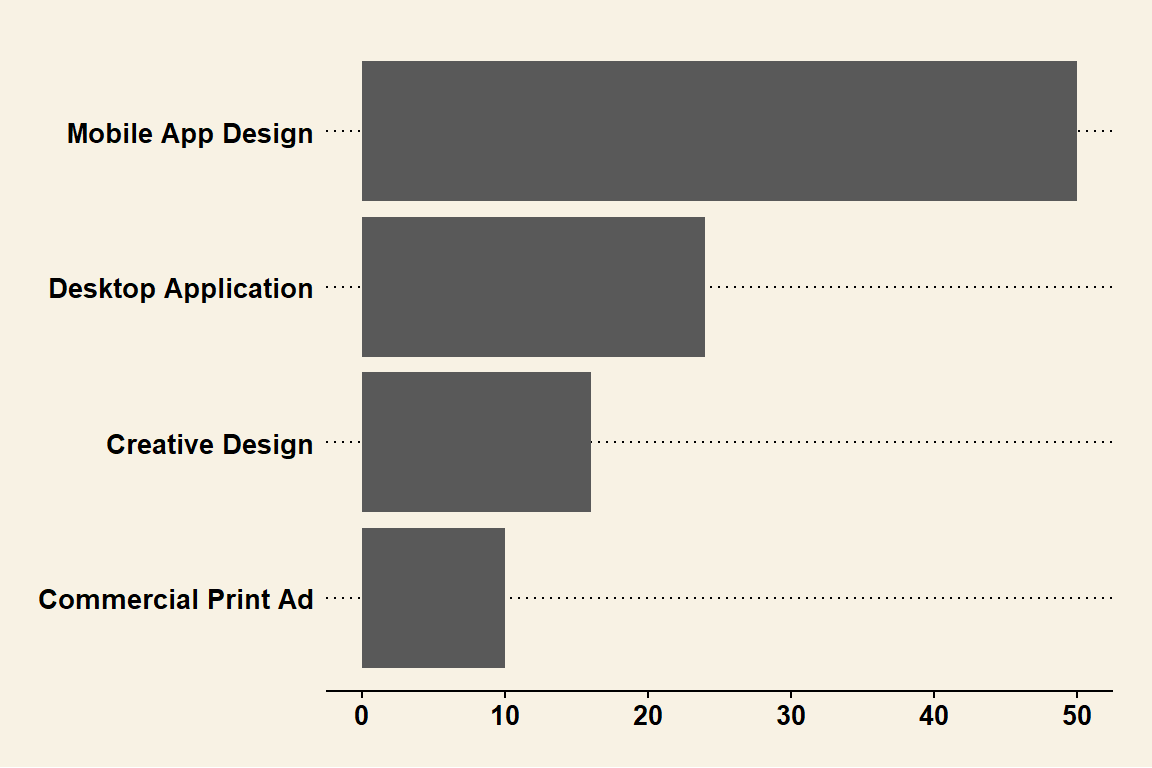
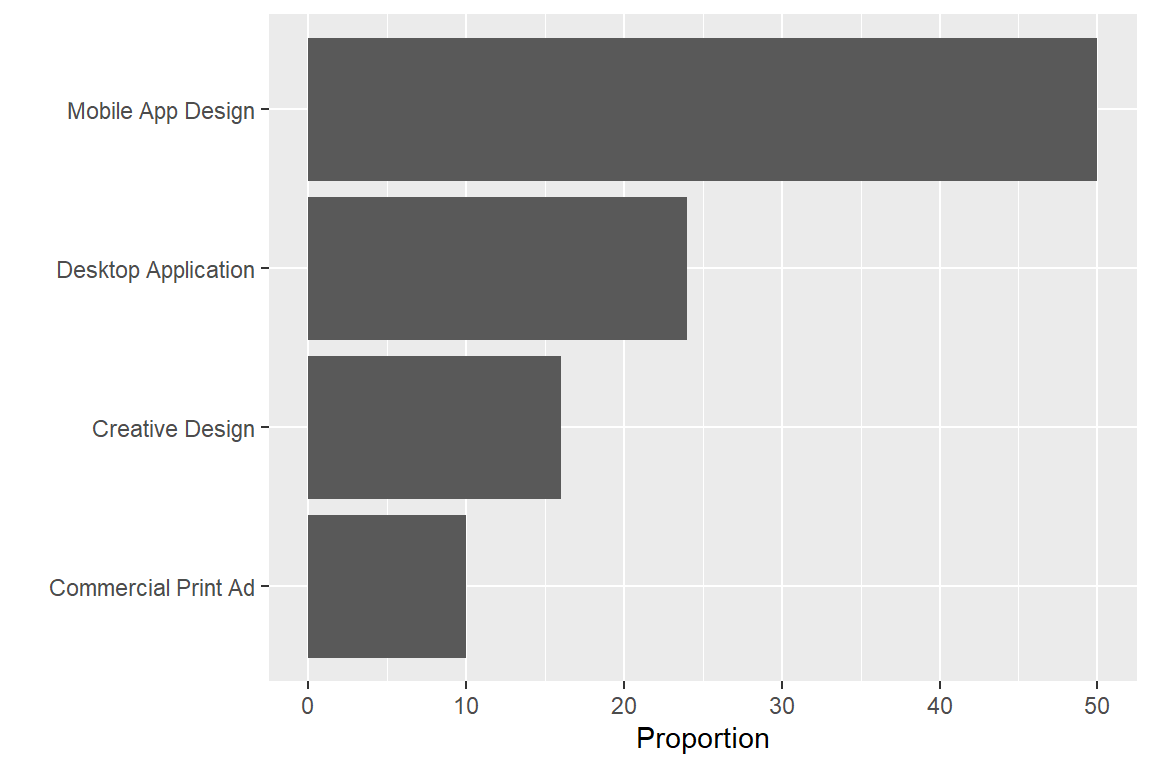
Présentation chap 4

diff --git a/diapos_h24/cours_3/04_viz.html b/diapos_h24/cours_3/04_viz.html
@@ -426,7 +426,7 @@ Andrés Silva
 <!-- 1. Les tableaux et leur organisation -->
 </section>
 <section id="les-graphiques-avant-de-publier" class="slide level2 center">
-<h2>1. Les graphiques: avant de publier</h2>
+<h2>1. Les graphiques : avant de publier</h2>
 </section>
 <section id="un-outil-dexploration" class="slide level2 center">
 <h2>Un outil d’exploration</h2>
@@ -477,60 +477,139 @@ Andrés Silva
 </div>
 </div>
 </section>
-<section id="section" class="slide level2 center">
-<h2></h2>
+<section id="section" class="slide level2 center" data-auto-animate="true">
+<h2 data-id="quarto-animate-title"></h2>
 <div class="cell" data-layout-align="center">
-<div class="sourceCode cell-code" id="cb3"><pre class="sourceCode numberSource r number-lines code-with-copy"><code class="sourceCode r"><span id="cb3-1"><a href="#cb3-1"></a>nasa_temp <span class="sc">|&gt;</span></span>
-<span id="cb3-2"><a href="#cb3-2"></a>  <span class="fu">filter</span>(year <span class="sc">&gt;=</span> <span class="dv">1998</span> <span class="sc">&amp;</span> year <span class="sc">&lt;=</span> <span class="dv">2008</span>) <span class="sc">%&gt;%</span> </span>
-<span id="cb3-3"><a href="#cb3-3"></a>  <span class="fu">ggplot</span>(<span class="at">mapping =</span> <span class="fu">aes</span>(<span class="at">x =</span> year, <span class="at">y =</span> temp)) <span class="sc">+</span></span>
-<span id="cb3-4"><a href="#cb3-4"></a>  <span class="fu">geom_line</span>()</span></code><button title="Copy to Clipboard" class="code-copy-button"><i class="bi"></i></button></pre></div>
+<div class="sourceCode cell-code" id="cb3"><pre class="sourceCode numberSource r number-lines code-with-copy" data-id="quarto-animate-code"><code class="sourceCode r hljs"><span id="cb3-1" class="hljs-ln-code"><a href="#cb3-1"></a>nasa_temp <span class="sc">|&gt;</span></span>
+<span id="cb3-2" class="hljs-ln-code"><a href="#cb3-2"></a>  <span class="fu">filter</span>(year <span class="sc">&gt;=</span> <span class="dv">1998</span> <span class="sc">&amp;</span> year <span class="sc">&lt;=</span> <span class="dv">2008</span>) <span class="sc">%&gt;%</span> </span>
+<span id="cb3-3" class="hljs-ln-code"><a href="#cb3-3"></a>  <span class="fu">ggplot</span>(<span class="at">mapping =</span> <span class="fu">aes</span>(<span class="at">x =</span> year, <span class="at">y =</span> temp)) <span class="sc">+</span></span>
+<span id="cb3-4" class="hljs-ln-code"><a href="#cb3-4"></a>  <span class="fu">geom_line</span>()</span></code><button title="Copy to Clipboard" class="code-copy-button"><i class="bi"></i></button></pre></div>
 
 </div>
 <img data-src="04_viz_files/figure-revealjs/unnamed-chunk-2-1.png" width="576" class="r-stretch quarto-figure-center"></section>
+<section id="section-1" class="slide level2 center" data-auto-animate="true">
+<h2 data-id="quarto-animate-title"></h2>
+<div class="cell" data-layout-align="center">
+<div class="sourceCode cell-code" id="cb4" data-code-line-numbers="2"><pre class="sourceCode numberSource r number-lines code-with-copy" data-id="quarto-animate-code"><code class="sourceCode r hljs"><span id="cb4-1" class="hljs-ln-code"><a href="#cb4-1"></a>nasa_temp <span class="sc">|&gt;</span></span>
+<span id="cb4-2" class="hljs-ln-code"><a href="#cb4-2"></a>  <span class="co">#filter(year &gt;= 1998 &amp; year &lt;= 2008) %&gt;% </span></span>
+<span id="cb4-3" class="hljs-ln-code"><a href="#cb4-3"></a>  <span class="fu">ggplot</span>(<span class="at">mapping =</span> <span class="fu">aes</span>(<span class="at">x =</span> year, <span class="at">y =</span> temp)) <span class="sc">+</span></span>
+<span id="cb4-4" class="hljs-ln-code"><a href="#cb4-4"></a>  <span class="fu">geom_line</span>()</span></code><button title="Copy to Clipboard" class="code-copy-button"><i class="bi"></i></button></pre></div>
+
+</div>
+<img data-src="04_viz_files/figure-revealjs/unnamed-chunk-3-1.png" width="576" class="r-stretch quarto-figure-center"></section>
+<section id="qualité-1.-honnêteté-1" class="slide level2 center">
+<h2>Qualité 1. Honnêteté</h2>
+<div class="columns">
+<div class="column" style="width:525px;">
+<div class="fragment semi-fade-out">
+<div class="quarto-figure quarto-figure-center">
+<figure>
+<p><img data-src="images/04_us_income.png" width="900"></p>
+</figure>
+</div>
+</div>
+</div><div class="column" style="width:525px;">
+<div class="fragment fade-in">
+<div class="quarto-figure quarto-figure-center">
+<figure>
+<p><img data-src="images/04_us_income_log.png" width="900"></p>
+</figure>
+</div>
+</div>
+</div>
+</div>
+<center>
+<small>L’inégalité des revenus des adultes aux États-Unis au fil du temps. Source : <a href="https://handsondataviz.org/persuasive.html">Hands-On Data Visualization</a>.</small>
+</center>
+</section>
 <section id="qualité-2.-fonctionnelle" class="slide level2 center">
 <h2>Qualité 2. Fonctionnelle</h2>
-<p><img data-src="images/3d-Pie-Chart1.jpg"> Source: <a href="https://slidebazaar.com/items/free-3d-pie-chart-powerpoint-template/">Slidebazaar</a></p>
+
+<img data-src="images/3d-Pie-Chart1.jpg" width="700" class="r-stretch quarto-figure-center"><p>Source : <a href="https://slidebazaar.com/items/free-3d-pie-chart-powerpoint-template/">Slidebazaar</a></p>
 </section>
-<section id="section-1" class="slide level2 center">
+<section id="section-2" class="slide level2 center">
 <h2></h2>
-<div class="cell">
-<div class="sourceCode cell-code" id="cb4"><pre class="sourceCode numberSource r number-lines code-with-copy"><code class="sourceCode r"><span id="cb4-1"><a href="#cb4-1"></a>market <span class="ot">&lt;-</span> <span class="fu">tibble</span>(<span class="at">category =</span> <span class="fu">c</span>(<span class="st">"Creative Design"</span>, <span class="st">"Desktop Application"</span>, <span class="st">"Commercial Print Ad"</span>, <span class="st">"Mobile App Design"</span>), <span class="at">proportion =</span> <span class="fu">c</span>(<span class="dv">16</span>, <span class="dv">24</span>, <span class="dv">10</span>, <span class="dv">50</span>))</span>
-<span id="cb4-2"><a href="#cb4-2"></a>market <span class="sc">%&gt;%</span> </span>
-<span id="cb4-3"><a href="#cb4-3"></a>  <span class="fu">ggplot</span>(<span class="at">mapping =</span> <span class="fu">aes</span>(<span class="at">x =</span> <span class="fu">fct_reorder</span>(category, proportion), <span class="at">y =</span> proportion)) <span class="sc">+</span> <span class="fu">geom_col</span>() <span class="sc">+</span> <span class="fu">labs</span>(<span class="at">x =</span> <span class="st">""</span>, <span class="at">y =</span> <span class="st">"Proportion"</span>) <span class="sc">+</span> <span class="fu">coord_flip</span>()</span></code><button title="Copy to Clipboard" class="code-copy-button"><i class="bi"></i></button></pre></div>
+<div class="cell" data-layout-align="center">
+<div class="sourceCode cell-code" id="cb5"><pre class="sourceCode numberSource r number-lines code-with-copy"><code class="sourceCode r"><span id="cb5-1"><a href="#cb5-1"></a>market <span class="ot">&lt;-</span> <span class="fu">tibble</span>(<span class="at">category =</span> <span class="fu">c</span>(<span class="st">"Creative Design"</span>, <span class="st">"Desktop Application"</span>, <span class="st">"Commercial Print Ad"</span>, <span class="st">"Mobile App Design"</span>), <span class="at">proportion =</span> <span class="fu">c</span>(<span class="dv">16</span>, <span class="dv">24</span>, <span class="dv">10</span>, <span class="dv">50</span>))</span>
+<span id="cb5-2"><a href="#cb5-2"></a>market <span class="sc">|&gt;</span></span>
+<span id="cb5-3"><a href="#cb5-3"></a>  <span class="fu">ggplot</span>(<span class="at">mapping =</span> <span class="fu">aes</span>(<span class="at">x =</span> <span class="fu">fct_reorder</span>(category, proportion), <span class="at">y =</span> proportion)) <span class="sc">+</span> <span class="fu">geom_col</span>() <span class="sc">+</span> <span class="fu">labs</span>(<span class="at">x =</span> <span class="st">""</span>, <span class="at">y =</span> <span class="st">"Proportion"</span>) <span class="sc">+</span> <span class="fu">coord_flip</span>()</span></code><button title="Copy to Clipboard" class="code-copy-button"><i class="bi"></i></button></pre></div>
 
 </div>
-<img data-src="04_viz_files/figure-revealjs/unnamed-chunk-3-1.png" width="576" class="r-stretch"></section>
+<img data-src="04_viz_files/figure-revealjs/unnamed-chunk-4-1.png" width="576" class="r-stretch quarto-figure-center"></section>
 <section id="qualité-3.-visuel" class="slide level2 center">
 <h2>Qualité 3. Visuel</h2>
-<div class="cell">
-<div class="sourceCode cell-code" id="cb5"><pre class="sourceCode numberSource r number-lines code-with-copy"><code class="sourceCode r"><span id="cb5-1"><a href="#cb5-1"></a><span class="co">#library("ggthemr")</span></span>
-<span id="cb5-2"><a href="#cb5-2"></a><span class="fu">library</span>(ggthemes)</span>
-<span id="cb5-3"><a href="#cb5-3"></a><span class="co">#ggthemr(palette = "dust", layout = "scientific", type = "outer")</span></span>
-<span id="cb5-4"><a href="#cb5-4"></a>market <span class="sc">%&gt;%</span> </span>
-<span id="cb5-5"><a href="#cb5-5"></a>  <span class="fu">ggplot</span>(<span class="at">mapping =</span> <span class="fu">aes</span>(<span class="at">x =</span> <span class="fu">fct_reorder</span>(category, proportion), <span class="at">y =</span> proportion)) <span class="sc">+</span> <span class="fu">geom_col</span>() <span class="sc">+</span> <span class="fu">labs</span>(<span class="at">x =</span> <span class="st">""</span>, <span class="at">y =</span> <span class="st">"Proportion"</span>) <span class="sc">+</span> <span class="fu">coord_flip</span>() <span class="sc">+</span> <span class="fu">theme_wsj</span>(<span class="at">base_size =</span> <span class="dv">10</span>)</span></code><button title="Copy to Clipboard" class="code-copy-button"><i class="bi"></i></button></pre></div>
+<p>Module <a href="https://github.com/Mikata-Project/ggthemr" class="external" target="_blank">ggthemr</a></p>
+<div class="cell" data-layout-align="center">
+<details>
+<summary>Code</summary>
+<div class="sourceCode cell-code" id="cb6"><pre class="sourceCode numberSource r number-lines code-with-copy"><code class="sourceCode r"><span id="cb6-1"><a href="#cb6-1"></a><span class="fu">library</span>(<span class="st">"ggthemr"</span>)</span>
+<span id="cb6-2"><a href="#cb6-2"></a><span class="fu">ggthemr</span>(<span class="at">palette =</span> <span class="st">"dust"</span>, <span class="at">layout =</span> <span class="st">"scientific"</span>, <span class="at">type =</span> <span class="st">"outer"</span>)</span>
+<span id="cb6-3"><a href="#cb6-3"></a>market <span class="sc">|&gt;</span> </span>
+<span id="cb6-4"><a href="#cb6-4"></a>  <span class="fu">ggplot</span>(<span class="at">mapping =</span> <span class="fu">aes</span>(<span class="at">x =</span> <span class="fu">fct_reorder</span>(category, proportion), <span class="at">y =</span> proportion)) <span class="sc">+</span></span>
+<span id="cb6-5"><a href="#cb6-5"></a>  <span class="fu">geom_col</span>() <span class="sc">+</span> <span class="fu">labs</span>(<span class="at">x =</span> <span class="st">""</span>, <span class="at">y =</span> <span class="st">"Proportion"</span>) <span class="sc">+</span> <span class="fu">coord_flip</span>()</span></code><button title="Copy to Clipboard" class="code-copy-button"><i class="bi"></i></button></pre></div>
+</details>
 
 </div>
-<img data-src="04_viz_files/figure-revealjs/unnamed-chunk-4-1.png" width="576" class="r-stretch"></section>
+<img data-src="04_viz_files/figure-revealjs/unnamed-chunk-5-1.png" width="576" class="r-stretch quarto-figure-center"></section>
 <section id="qualité-3.-visuel-1" class="slide level2 center">
 <h2>Qualité 3. Visuel</h2>
-<div class="cell">
-<div class="sourceCode cell-code" id="cb6"><pre class="sourceCode numberSource r number-lines code-with-copy"><code class="sourceCode r"><span id="cb6-1"><a href="#cb6-1"></a><span class="fu">library</span>(ggprism)</span>
-<span id="cb6-2"><a href="#cb6-2"></a></span>
-<span id="cb6-3"><a href="#cb6-3"></a>market <span class="sc">%&gt;%</span> </span>
-<span id="cb6-4"><a href="#cb6-4"></a>  <span class="fu">ggplot</span>(<span class="at">mapping =</span> <span class="fu">aes</span>(<span class="at">x =</span> <span class="fu">fct_reorder</span>(category, proportion), <span class="at">y =</span> proportion)) <span class="sc">+</span> <span class="fu">geom_col</span>() <span class="sc">+</span> <span class="fu">labs</span>(<span class="at">x =</span> <span class="st">""</span>, <span class="at">y =</span> <span class="st">"Proportion"</span>) <span class="sc">+</span> <span class="fu">coord_flip</span>() <span class="sc">+</span> <span class="fu">theme_prism</span>(<span class="at">palette =</span> <span class="st">"summer"</span>, <span class="at">base_size =</span> <span class="dv">10</span>)</span></code><button title="Copy to Clipboard" class="code-copy-button"><i class="bi"></i></button></pre></div>
-
+<div class="columns">
+<div class="column" style="width:50%;">
+<p>Module <a href="https://github.com/jrnold/ggthemes" class="external" target="_blank">ggthemes</a></p>
+<div class="cell" data-layout-align="center">
+<details>
+<summary>Code</summary>
+<div class="sourceCode cell-code" id="cb7"><pre class="sourceCode numberSource r number-lines code-with-copy"><code class="sourceCode r"><span id="cb7-1"><a href="#cb7-1"></a><span class="fu">library</span>(ggthemes)</span>
+<span id="cb7-2"><a href="#cb7-2"></a>market <span class="sc">|&gt;</span> </span>
+<span id="cb7-3"><a href="#cb7-3"></a>  <span class="fu">ggplot</span>(<span class="at">mapping =</span> <span class="fu">aes</span>(<span class="at">x =</span> <span class="fu">fct_reorder</span>(category, proportion), <span class="at">y =</span> proportion)) <span class="sc">+</span></span>
+<span id="cb7-4"><a href="#cb7-4"></a>  <span class="fu">geom_col</span>() <span class="sc">+</span> <span class="fu">labs</span>(<span class="at">x =</span> <span class="st">""</span>, <span class="at">y =</span> <span class="st">"Proportion"</span>) <span class="sc">+</span> <span class="fu">coord_flip</span>() <span class="sc">+</span></span>
+<span id="cb7-5"><a href="#cb7-5"></a>  <span class="fu">theme_wsj</span>(<span class="at">base_size =</span> <span class="dv">10</span>)</span></code><button title="Copy to Clipboard" class="code-copy-button"><i class="bi"></i></button></pre></div>
+</details>
+<div class="cell-output-display">
+<div class="quarto-figure quarto-figure-center">
+<figure>
+<p><img data-src="04_viz_files/figure-revealjs/unnamed-chunk-7-1.png" width="576"></p>
+</figure>
 </div>
-<img data-src="04_viz_files/figure-revealjs/unnamed-chunk-5-1.png" width="576" class="r-stretch"></section>
+</div>
+</div>
+</div><div class="column" style="width:50%;">
+<p>Module <a href="https://github.com/csdaw/ggprism" class="external" target="_blank">ggprism</a></p>
+<div class="cell" data-layout-align="center">
+<details>
+<summary>Code</summary>
+<div class="sourceCode cell-code" id="cb8"><pre class="sourceCode numberSource r number-lines code-with-copy"><code class="sourceCode r"><span id="cb8-1"><a href="#cb8-1"></a><span class="fu">library</span>(ggprism)</span>
+<span id="cb8-2"><a href="#cb8-2"></a>market <span class="sc">|&gt;</span></span>
+<span id="cb8-3"><a href="#cb8-3"></a>  <span class="fu">ggplot</span>(<span class="at">mapping =</span> <span class="fu">aes</span>(<span class="at">x =</span> <span class="fu">fct_reorder</span>(category, proportion), <span class="at">y =</span> proportion)) <span class="sc">+</span></span>
+<span id="cb8-4"><a href="#cb8-4"></a>  <span class="fu">geom_col</span>() <span class="sc">+</span> <span class="fu">labs</span>(<span class="at">x =</span> <span class="st">""</span>, <span class="at">y =</span> <span class="st">"Proportion"</span>) <span class="sc">+</span> <span class="fu">coord_flip</span>() <span class="sc">+</span></span>
+<span id="cb8-5"><a href="#cb8-5"></a>  <span class="fu">theme_prism</span>(<span class="at">palette =</span> <span class="st">"summer"</span>, <span class="at">base_size =</span> <span class="dv">10</span>)</span></code><button title="Copy to Clipboard" class="code-copy-button"><i class="bi"></i></button></pre></div>
+</details>
+<div class="cell-output-display">
+<div class="quarto-figure quarto-figure-center">
+<figure>
+<p><img data-src="04_viz_files/figure-revealjs/unnamed-chunk-8-1.png" width="576"></p>
+</figure>
+</div>
+</div>
+</div>
+</div>
+</div>
+</section>
 <section id="qualité-4.-pertinence" class="slide level2 center">
 <h2>Qualité 4. Pertinence</h2>
-<img src="../../images/03_mann-hockey-stick-2001.png" width="600">
 <center>
-Source: <a href="https://www.ipcc.ch/pdf/climate-changes-2001/scientific-basis/scientific-spm-ts-fr.pdf">GIEC, Bilan 2001 des changements climatiques : Les éléments scientifiques</a>
+<img src="https://images.nzgeo.com/2016/01/52_Weather_01-1300x926.jpg" width="700">
+</center>
+<center>
+<small> Source: <a href="https://www.ipcc.ch/pdf/climate-changes-2001/scientific-basis/scientific-spm-ts-fr.pdf" class="external" target="_blank">GIEC, Bilan 2001 des changements climatiques : Les éléments scientifiques</a> </small>
 </center>
 </section>
 <section id="qualité-5.-instructive" class="slide level2 center">
 <h2>Qualité 5. Instructive</h2>
-<p><img data-src="images/chocolat-nobel.png"> Source: <a href="https://www.nejm.org/doi/full/10.1056/NEJMon1211064">Messerli, (2012)</a></p>
+
+<img data-src="images/chocolat-nobel.png" width="600" class="r-stretch quarto-figure-center"><center>
+Source: <a href="https://www.nejm.org/doi/full/10.1056/NEJMon1211064">Messerli, (2012)</a>
+</center>
 <!-- 3. et 4. -->
 </section>
 <section id="choisir-le-bon-type-de-graphique" class="slide level2 center">
@@ -542,17 +621,17 @@ Source: <a href="https://www.ipcc.ch/pdf/climate-changes-2001/scientific-basis/s
 <li>Testez le résultat.</li>
 </ol>
 </section>
-<section id="section-2" class="slide level2 center">
+<section id="section-3" class="slide level2 center">
 <h2></h2>
 
-<img data-src="../../images/03_poster.png" class="r-stretch quarto-figure-center"></section>
+<img data-src="images/03_poster.png" class="r-stretch quarto-figure-center"></section>
 <section id="différentes-approches" class="slide level2 center">
 <h2>4. Différentes approches</h2>
 <p><strong>Impérative</strong>. <em>Comment</em> placer l’information sur une canevas. Exemple: R-base, Matplotlib (Python), Excel.</p>
 <p><strong>Déclarative</strong>. Spécifier <em>quoi</em> afficher. Exemple: ggplot2, altair (Python).</p>
 <blockquote>
 <p>La visualisation déclarative vous permet de penser aux données et à leurs relations, plutôt que des détails accessoires.</p>
-<p><a href="https://www.youtube.com/watch?v=FytuB8nFHPQ"><em>Jake Vanderplas, Declarative Statistical Visualization in Python with Altair</em></a> (ma traduction)</p>
+<p><small><a href="https://www.youtube.com/watch?v=FytuB8nFHPQ"><em>Jake Vanderplas, Declarative Statistical Visualization in Python with Altair</em></a> (Traduction par Essi Parent)</small></p>
 </blockquote>
 <!-- 5. Visualisation en R  -->
 </section>
@@ -574,11 +653,16 @@ Source: <a href="https://www.ipcc.ch/pdf/climate-changes-2001/scientific-basis/s
 <li><strong>Les données</strong>. Votre tableau est bien sûr un argument nécessaire pour générer le graphique.</li>
 <li><strong>Les marqueurs</strong>. Un terme abstrait pour désigner les points, les lignes, les polygones, les barres, les flèches, etc.</li>
 <li><strong>Les attributs encodés</strong>. La position, la dimension, la couleur ou la forme que prendront les géométries. En ggplot2, on les nomme les <em>aesthetics</em>.</li>
+</ol>
+</section>
+<section id="ggplot2-1" class="slide level2 center">
+<h2>ggplot2</h2>
+<ol start="4" type="1">
 <li><strong>Les attributs globaux</strong>. Les attributs sont globaux lorsqu’ils sont constant (ils ne dépendent pas d’une variable). Les valeurs par défaut conviennent généralement, mais certains attributs peuvent être spécifiés: par exemple la forme ou la couleur des points, le type de ligne.</li>
 <li><strong>Les thèmes</strong>. Le thème du graphique peut être spécifié dans son ensemble, c’est-à-dire en utilisant un thème prédéfini, mais l’on peut modifier certains détails.</li>
 </ol>
 </section>
-<section id="ggplot2-1" class="slide level2 center">
+<section id="ggplot2-2" class="slide level2 center">
 <h2>ggplot2</h2>
 <p>–&gt; basculer vers les notes de cours.</p>
 <!-- 6. Fermeture -->
